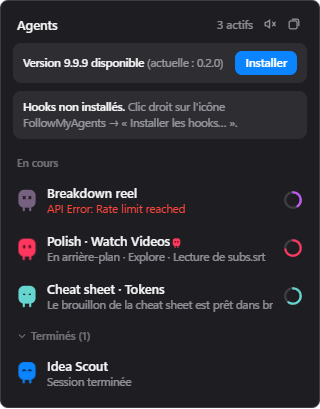
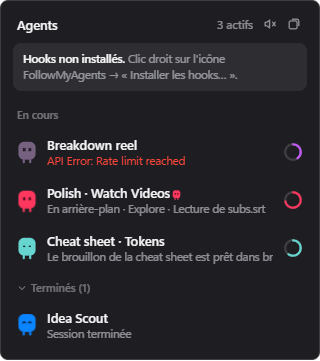
feat(updater): check 3 s after startup and when the panel opens (if older than 30 min)

diff --git a/src/main/index.ts b/src/main/index.ts
@@ -247,6 +247,7 @@ function updateMenuItems(): Electron.MenuItemConstructorOptions[] {
 }
 
 async function checkUpdate(manual = false) {
+  lastUpdateCheck = Date.now();
   const st = await updater.check();
   if (!manual) return;
   if (st.state === "up-to-date") {
@@ -278,11 +279,23 @@ async function confirmUpdate() {
 }
 
 // ---------- panneau ----------
+let lastUpdateCheck = 0;
+/** Vérifie les mises à jour si la dernière vérification date de plus de minAgeMs. */
+function maybeCheckUpdate(minAgeMs = 30 * 60_000) {
+  if (!cfg.prefs.autoUpdateCheck) return;
+  if (process.env.FMA_E2E === "1" && !process.env.FMA_UPDATE_API) return;
+  if (["checking", "available", "downloading", "installing"].includes(updater.state.state)) return;
+  if (Date.now() - lastUpdateCheck < minAgeMs) return;
+  lastUpdateCheck = Date.now();
+  void updater.check();
+}
+
 let autoHideTimer: NodeJS.Timeout | null = null;
 function togglePanel(reason: "click" | "shortcut") {
   if (panel.visible) panel.hide();
   else {
     panel.show(reason);
+    maybeCheckUpdate();
     if (reason === "shortcut") panel.win.webContents.send("focus-pending", store.getPendings()[0]?.id ?? null);
   }
 }
@@ -448,11 +461,11 @@ async function start() {
 
   setInterval(() => store.tick(), 1000);
 
-  // mises à jour : 15 s après le démarrage puis toutes les 6 h (pas en test, sauf API simulée)
+  // mises à jour : 3 s après le démarrage, puis toutes les 6 h et à chaque ouverture
+  // du panneau si la dernière vérification a plus de 30 min (pas en test, sauf API simulée)
   if (process.env.FMA_E2E !== "1" || process.env.FMA_UPDATE_API) {
-    const auto = () => cfg.prefs.autoUpdateCheck && void updater.check();
-    setTimeout(auto, 15_000);
-    setInterval(auto, 6 * 3600_000);
+    setTimeout(() => maybeCheckUpdate(0), 3_000);
+    setInterval(() => maybeCheckUpdate(0), 6 * 3600_000);
   }
 
   // ---------- IPC ----------
